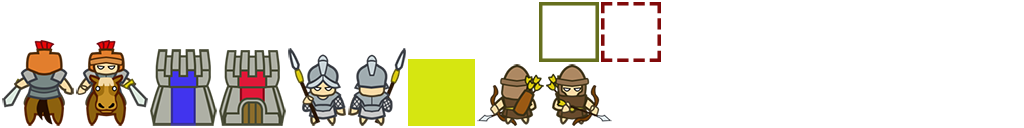
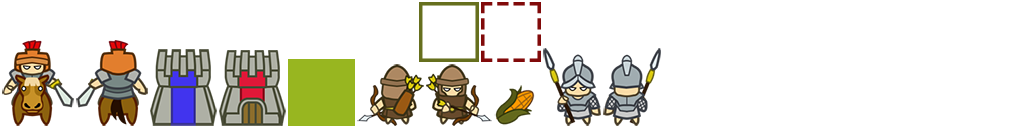
render resource

diff --git a/core/src/com/olan/warmonger/Text.java b/core/src/com/olan/warmonger/Text.java
@@ -1,0 +1,67 @@
+package com.olan.warmonger;
+
+import com.badlogic.gdx.math.Vector2;
+import com.badlogic.gdx.graphics.Color;
+import com.badlogic.gdx.graphics.g2d.Batch;
+import com.badlogic.gdx.graphics.g2d.BitmapFont;
+import com.badlogic.gdx.graphics.g2d.GlyphLayout;
+
+public class Text {
+  private final Vector2 position = new Vector2();
+
+  private BitmapFont font;
+  private String defaultText;
+
+  private Vector2 anchorPoint;
+  private GlyphLayout textLayout;
+
+  public Text (BitmapFont font, String defaultText) {
+    anchorPoint = new Vector2();
+
+    this.font = font;
+    this.defaultText = defaultText;
+    reset();
+  }
+
+  public Text (BitmapFont font) {
+    this(font, "");
+  }
+
+  public void reset () {
+    setText(defaultText);
+  }
+
+  public void setText (String text) {
+    if (textLayout == null) {
+      textLayout = new GlyphLayout();
+    }
+    textLayout.setText(font, text);
+    calculatePosition();
+  }
+
+  public void draw (Batch batch) {
+    font.draw(batch, textLayout, position.x, position.y);
+  }
+
+  public void setCenter (float x, float y) {
+    anchorPoint.set(x, y);
+    calculatePosition();
+  }
+
+  public void calculatePosition () {
+    position.set(anchorPoint.x - textLayout.width / 2,
+        anchorPoint.y + textLayout.height / 2);
+  }
+
+  public float getWidth () {
+    return textLayout.width;
+  }
+
+  public float getHeight () {
+    return textLayout.height;
+  }
+
+  public void setColor (Color color) {
+    font.setColor(color);
+  }
+}

diff --git a/core/src/com/olan/warmonger/Assets.java b/core/src/com/olan/warmonger/Assets.java
@@ -1,6 +1,9 @@
 package com.olan.warmonger;
 
+import com.badlogic.gdx.Gdx;
 import com.badlogic.gdx.graphics.Texture;
+import com.badlogic.gdx.graphics.Color;
+import com.badlogic.gdx.graphics.g2d.BitmapFont;
 import com.badlogic.gdx.graphics.g2d.TextureRegion;
 import com.badlogic.gdx.graphics.g2d.TextureAtlas;
 import com.badlogic.gdx.graphics.g2d.TextureAtlas.AtlasRegion;
@@ -18,13 +21,24 @@ public class Assets {
   public static AtlasRegion selectionCombat;
   public static AtlasRegion castleBlue;
   public static AtlasRegion castleRed;
+  public static AtlasRegion corn;
+
+  public static BitmapFont worldFont;
 
   public static void load () {
     loadTexture();
+    loadFont();
   }
 
   public static AtlasRegion loadTexture (String name) {
     return sprite.findRegion(name);
+  }
+
+  public static BitmapFont loadFont (String name) {
+    return new BitmapFont(
+        Gdx.files.internal(name + ".fnt"),
+        Gdx.files.internal(name + ".png"),
+        false);
   }
 
   public static void loadTexture () {
@@ -39,9 +53,16 @@ public class Assets {
     selectionCombat = loadTexture("selection-combat");
     castleBlue = loadTexture("castle-blue");
     castleRed = loadTexture("castle-red");
+    corn = loadTexture("corn");
+  }
+
+  public static void loadFont () {
+    worldFont = loadFont("world-font");
+    worldFont.setColor(Color.WHITE);
   }
 
   public static void dispose () {
+    worldFont.dispose();
     sprite.dispose();
     backgroundTexture.dispose();
   }

diff --git a/core/src/com/olan/warmonger/Tile.java b/core/src/com/olan/warmonger/Tile.java
@@ -12,12 +12,14 @@ public class Tile extends GameObject {
   private int column;
   private TileListener listener;
 
+  private int resource;
+  private Text resourceText;
+
   public Tile (int row, int column) {
     super(Assets.tile);
 
     setRow(row);
     setColumn(column);
-
     addListener(new ClickListener () {
       public void clicked (InputEvent event, float x, float y) {
         if (listener != null) {
@@ -25,6 +27,23 @@ public class Tile extends GameObject {
         }
       }
     });
+
+    resourceText = new Text(Assets.worldFont);
+    setResource(15);
+  }
+
+  @Override
+  public void draw (Batch batch, float parentAlpha) {
+    super.draw(batch, parentAlpha);
+    batch.draw(Assets.corn,
+        getCenterX() - Assets.corn.getRegionWidth() / 2,
+        getCenterY() - Assets.corn.getRegionHeight() / 2);
+    resourceText.draw(batch);
+  }
+
+  @Override
+  protected void	positionChanged () {
+    resourceText.setCenter(getCenterX(), getCenterY() - 15);
   }
 
   public void addListener (TileListener listerner) {
@@ -40,11 +59,20 @@ public class Tile extends GameObject {
   }
 
   public int getRow () {
-    return row;
+    return this.row;
   }
 
   public int getColumn () {
-    return column;
+    return this.column;
+  }
+
+  public int getResource () {
+    return this.resource;
+  }
+
+  public void setResource (int resource) {
+    this.resource = resource;
+    resourceText.setText(resource + "");
   }
 
   public interface TileListener {
